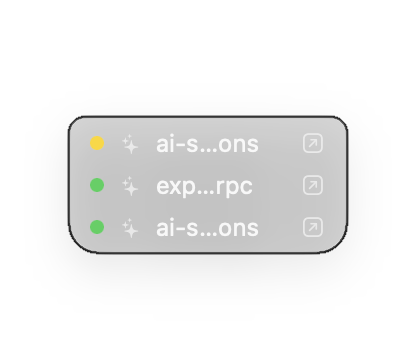
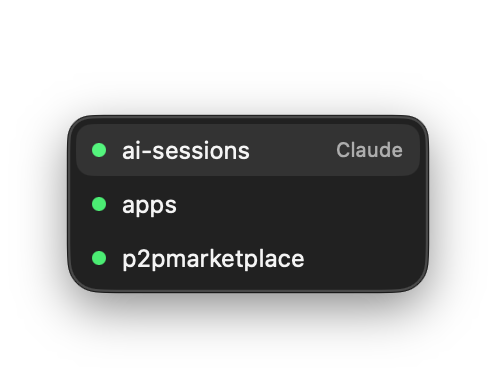
docs: refresh README screenshots and correct stale claims
Replace the outdated overlay and menu screenshots with current UI shots
and add a settings screenshot.

Fix inaccuracies found while cross-checking the README against source:

- Uninstall lives in Settings, not the menu bar directly
- Codex CLI is wired for 5 lifecycle events, not all 7 like Claude Code
- Swift toolchain is 6.2 (per Package.swift), not 6.0
- Replace the hand-maintained version badge with a GitHub release shield
- Fix the placeholder clone URL
- Clarify that ad-hoc signing applies to local builds, while release
  downloads are Developer ID signed and notarized

Also document `swift test` and the hover-to-reveal overlay behavior.

diff --git a/README.md b/README.md
@@ -8,23 +8,29 @@
 
 ---
 
-**Stop alt-tabbing to check if your AI coding agent is done.** `lil agents` (aka **AgentDeck**) is a tiny, native macOS menu-bar app that shows the live status of every [Claude Code](https://docs.anthropic.com/en/docs/claude-code) and [OpenAI Codex CLI](https://developers.openai.com/codex/) session in a always-on-top overlay — working, idle, or waiting for you — and lets you jump straight to the terminal pane that needs attention.
+**Stop alt-tabbing to check if your AI coding agent is done.** `lil agents` (aka **AgentDeck**) is a tiny, native macOS menu-bar app that shows the live status of every [Claude Code](https://docs.anthropic.com/en/docs/claude-code) and [OpenAI Codex CLI](https://developers.openai.com/codex/) session in an always-on-top overlay — working, idle, or waiting for you — and lets you jump straight to the terminal pane that needs attention.
 
 > Built for developers running **multiple AI agents in parallel** across terminal tabs and windows. One glance tells you which session is blocked on a permission prompt, which finished its turn, and which is still crunching.
 
 ![Platform](https://img.shields.io/badge/platform-macOS%2026%2B-black)
-![Swift](https://img.shields.io/badge/Swift-6.0-orange)
+![Swift](https://img.shields.io/badge/Swift-6.2-orange)
 ![UI](https://img.shields.io/badge/UI-SwiftUI%20%2B%20AppKit-blue)
 ![License](https://img.shields.io/badge/license-MIT-green)
-![Status](https://img.shields.io/badge/status-v0.3.0-brightgreen)
+![Release](https://img.shields.io/github/v/release/alfonsocartes/lil-agents?color=brightgreen)
 
 <p align="center">
-  <img src="assets/overlay-screenshot.png" alt="lil agents floating overlay showing live Claude Code and Codex sessions with traffic-light status" width="300" />
+  <img src="assets/overlay-screenshot.png" alt="lil agents floating overlay showing three live Claude Code sessions with green traffic-light status dots" width="280" />
   &nbsp;&nbsp;
-  <img src="assets/menu-screenshot.png" alt="lil agents menu bar menu with session list, jump-to-pane, stay awake toggle, and overlay hotkey" width="300" />
+  <img src="assets/menu-screenshot.png" alt="lil agents menu bar menu with session list, per-session status and agent, jump-to-pane arrows, stay awake toggle, settings, and overlay hotkey" width="300" />
 </p>
 
-<p align="center"><sub>The always-on-top overlay (left) and the menu-bar menu (right) — every live agent session at a glance.</sub></p>
+<p align="center"><sub>The always-on-top overlay (left) — compact by default, revealing which agent owns a row on hover — and the menu-bar menu (right), with per-session status, agent, and last-update time.</sub></p>
+
+<p align="center">
+  <img src="assets/settings-screenshot.png" alt="lil agents settings window with notification toggles for needs-approval and finished-turn alerts, sound, and an uninstall button" width="380" />
+</p>
+
+<p align="center"><sub>Settings — choose which states alert you, whether they play a sound, and uninstall cleanly.</sub></p>
 
 ---
 
@@ -43,7 +49,7 @@ Click any session and it **jumps to the exact terminal pane that owns it** — a
 ## Features
 
 - **Real-time agent monitoring** — tracks Claude Code and Codex CLI sessions as they start, work, prompt, and finish.
-- **Floating overlay** — a compact, near-transparent, always-on-top list of live sessions. Toggle it anywhere with a global hotkey (**⌥⌘J**).
+- **Floating overlay** — a compact, translucent, always-on-top list of live sessions; hover a row to reveal which agent owns it. Toggle it anywhere with a global hotkey (**⌥⌘J**).
 - **Menu bar status icon** — the menu-bar glyph changes color to reflect the most attention-worthy session (red → yellow → green), so you know the state without even opening the overlay.
 - **One-click jump to terminal** — click a session (in the overlay or the menu) to focus the exact pane that owns it. Precise focus for **iTerm2, Terminal.app, WezTerm, and tmux** (matched by controlling TTY / pane id); **Ghostty** gets precise split focus too via its AppleScript API (working-directory match on 1.3.0+, exact TTY match on 1.4.0+/tip), falling back to bringing the app forward on older builds.
 - **Notification Center alerts** — optionally get a banner (and sound) the instant a session goes **🔴 needs-approval** or **🟡 finished-its-turn**. Fires once per transition; tap the alert to jump straight to that pane. Fully configurable in **Settings** (which states, sound, on/off).
@@ -60,7 +66,7 @@ Click any session and it **jumps to the exact terminal pane that owns it** — a
 - **Claude Code** → `~/.claude/settings.json`
 - **Codex CLI** → `~/.codex/hooks.json`
 
-On each lifecycle event (`SessionStart`, `UserPromptSubmit`, `PreToolUse`, `Notification`/`PermissionRequest`, `Stop`, `SubagentStop`, `SessionEnd`), a tiny generated forwarder script reads the hook's JSON, tags it with the terminal's TTY, and `POST`s it to the app's local listener. The app maps those events to a coarse status (`working` / `idle` / `waitingApproval`) and updates the overlay and menu-bar icon instantly.
+On each lifecycle event — `SessionStart`, `UserPromptSubmit`, `PreToolUse`, `Notification`, `Stop`, `SubagentStop`, and `SessionEnd` for Claude Code; `SessionStart`, `UserPromptSubmit`, `PreToolUse`, `PermissionRequest`, and `Stop` for Codex CLI — a tiny generated forwarder script reads the hook's JSON, tags it with the terminal's TTY, and `POST`s it to the app's local listener. The app maps those events to a coarse status (`working` / `idle` / `waitingApproval`) and updates the overlay and menu-bar icon instantly.
 
 ```
 Claude Code / Codex CLI
@@ -75,7 +81,7 @@ Existing hooks from other tools and plugins are preserved — the installer only
 ## Requirements
 
 - **macOS 26 or later**
-- **Swift 6 toolchain** (Xcode 26+) to build from source
+- **Swift 6.2 toolchain** (Xcode 26+) to build from source
 - A supported terminal for click-to-jump — **[iTerm2](https://iterm2.com/)**, **Terminal.app**, **[WezTerm](https://wezterm.org/)**, or **[tmux](https://github.com/tmux/tmux)** for precise pane focus (**[Ghostty](https://ghostty.org/)** 1.3.0+ also gets precise split focus via its AppleScript API; older Ghostty falls back to app-activate). Sessions are still *tracked* in any terminal — this only affects jump-to-pane.
 - **Claude Code** and/or **Codex CLI** installed — whichever agents you want to monitor
 
@@ -102,7 +108,7 @@ To check manually: menu bar → **Check for Updates…**
 To build from source instead of downloading a release, clone and build the `.app` with the included script:
 
 ```bash
-git clone https://github.com/<your-org>/lil-agents.git
+git clone https://github.com/alfonsocartes/lil-agents.git
 cd lil-agents
 scripts/build-app.sh          # release build → dist/lil agents.app
 open "dist/lil agents.app"
@@ -114,9 +120,15 @@ Or build the raw binary with SwiftPM:
 swift build -c release
 ```
 
+Run the test suite with:
+
+```bash
+swift test
+```
+
 On first launch, use the app's install action to wire up the CLI hooks, then start (or restart) a Claude Code or Codex session — it should appear in the overlay immediately.
 
-> **First-run permissions:** macOS will show a one-time **Automation** prompt so the app can control iTerm2 when you jump to a pane. The build is ad-hoc code-signed so this grant persists across launches.
+> **First-run permissions:** macOS will show a one-time **Automation** prompt so the app can control your terminal when you jump to a pane. Local source builds are ad-hoc code-signed (release downloads are Developer ID signed and notarized), which is enough for this grant to persist across launches.
 
 ## Usage
 
@@ -126,7 +138,7 @@ On first launch, use the app's install action to wire up the CLI hooks, then sta
 | Jump to a session's terminal | Click the session row (overlay) or menu item, or tap its notification |
 | Configure notifications | Menu bar → **Settings…** (**⌘,**) |
 | Keep Mac awake with lid closed | Menu bar → **Stay awake (lid closed)** |
-| Quit | Menu bar → **Quit lil agents** |
+| Quit | Menu bar → **Quit lil agents** (**⌘Q**) |
 
 Status at a glance:
 
@@ -144,7 +156,7 @@ Status at a glance:
 
 ## Uninstalling
 
-Menu bar → **Uninstall lil agents…**
+Menu bar → **Settings…** (**⌘,**) → **Uninstall lil agents…**
 
 This removes everything `lil agents` added to your system:
 